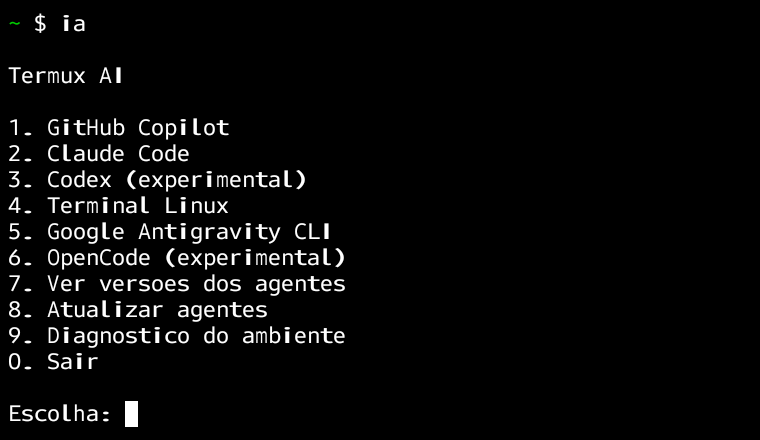
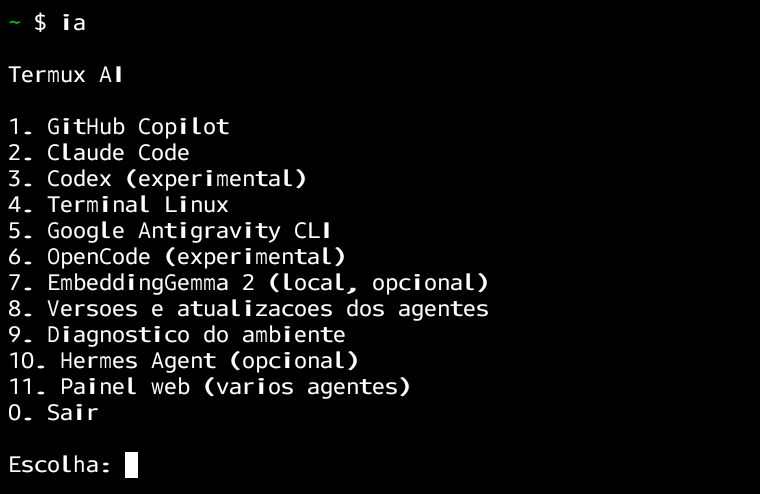
docs: refresh the menu screenshot with the Hermes and web panel entries
The image still showed the nine original entries. It is now a real capture from the tablet with the current menu, and the alt text lists the new entries.

diff --git a/README.md b/README.md
@@ -28,7 +28,7 @@ instale o [Hermes Agent](#hermes-agent-opcional).
 sem depender de um PC no uso diario.
 
 <p align="center">
-    <img src="docs/images/menu-android.png" width="760" alt="Menu do AI Termux Android com os cinco agentes, o terminal Linux, versoes, atualizacao e diagnostico">
+    <img src="docs/images/menu-android.png" width="760" alt="Menu do AI Termux Android com os agentes, o terminal Linux, o EmbeddingGemma, versoes e atualizacoes, diagnostico, o Hermes Agent opcional e o painel web">
     <br>
     <sub>Abra com ia. Escolha pelo numero. Comece no seu projeto.</sub>
 </p>
